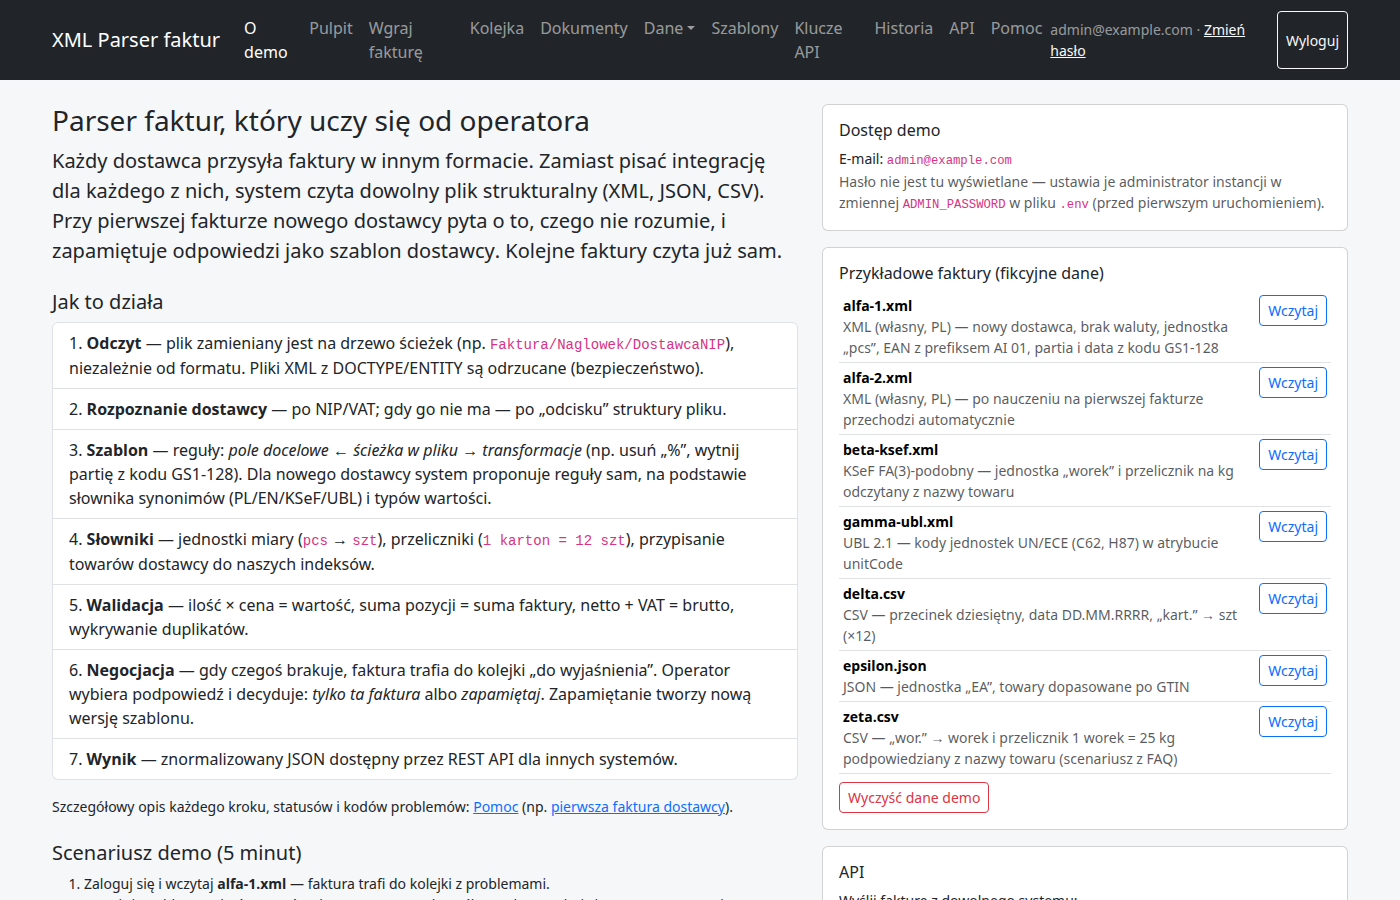
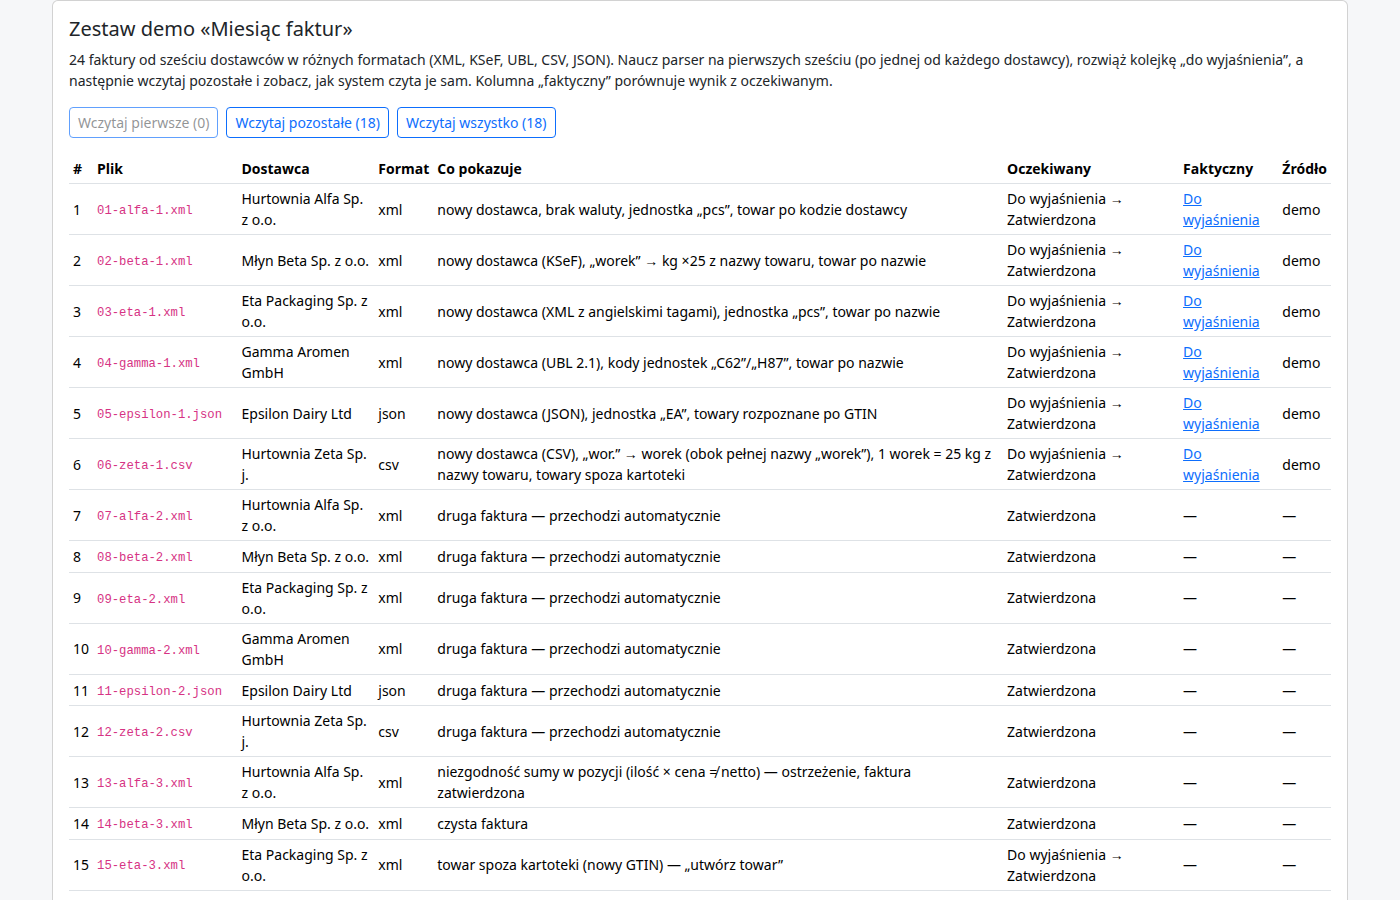
test(narzedzia): test --serve sprawdza kartę „Zestaw demo”; zrzut 14-demo-zestaw z kartą zestawu
Claude-Session: https://claude.ai/code/session_012vijU9EfMK3ekxjrzz2gfS

Changed region(s): [[0.0, 0.0, 1.0, 1.0], [0.8907, 0.56, 0.9521, 0.6844], [0.8907, 0.7156, 0.9521, 0.8089]]

diff --git a/tests/test_screenshots_tool.py b/tests/test_screenshots_tool.py
@@ -186,8 +186,8 @@ def test_serve_mode_starts_isolated_instance(tool, tmp_path):
         assert health["status"] == "ok" and health["version"] == __version__
         with urllib.request.build_opener(urllib.request.ProxyHandler({})).open(base + "/demo", timeout=10) as r:
             assert r.status == 200
-        # TODO (kontroler, po scaleniu karty zestawu z T3): dodać assert "Zestaw demo" w treści /demo
-        # (tu: /dokumenty wymaga logowania, więc sprawdzamy log startu — sześć plików zestawu wczytanych przed próbkami)
+            assert "Zestaw demo" in r.read().decode("utf-8")  # karta zestawu (tabela postępu widoczna bez logowania)
+        # /dokumenty wymaga logowania, więc kolejność wczytania sprawdzamy w logu startu (zestaw przed próbkami)
     from app.services.demo_dataset import load_manifest
     log = (tmp_path / "serwer.log").read_text(encoding="utf-8")
     for entry in load_manifest().by_phase("pierwsze"):
